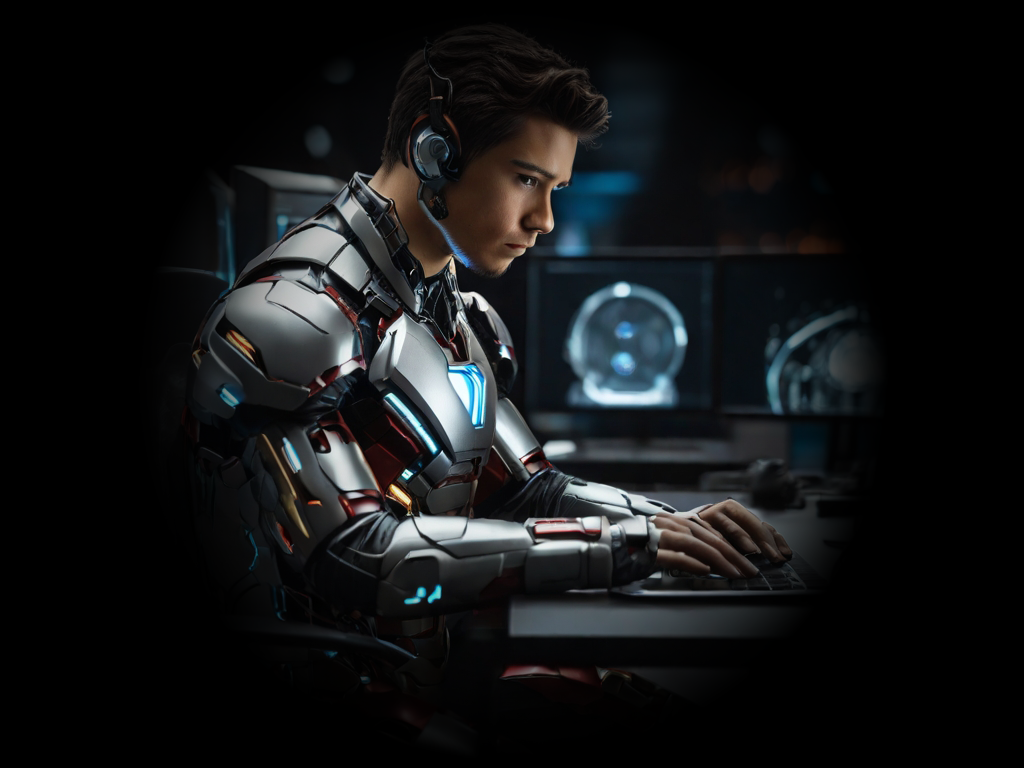
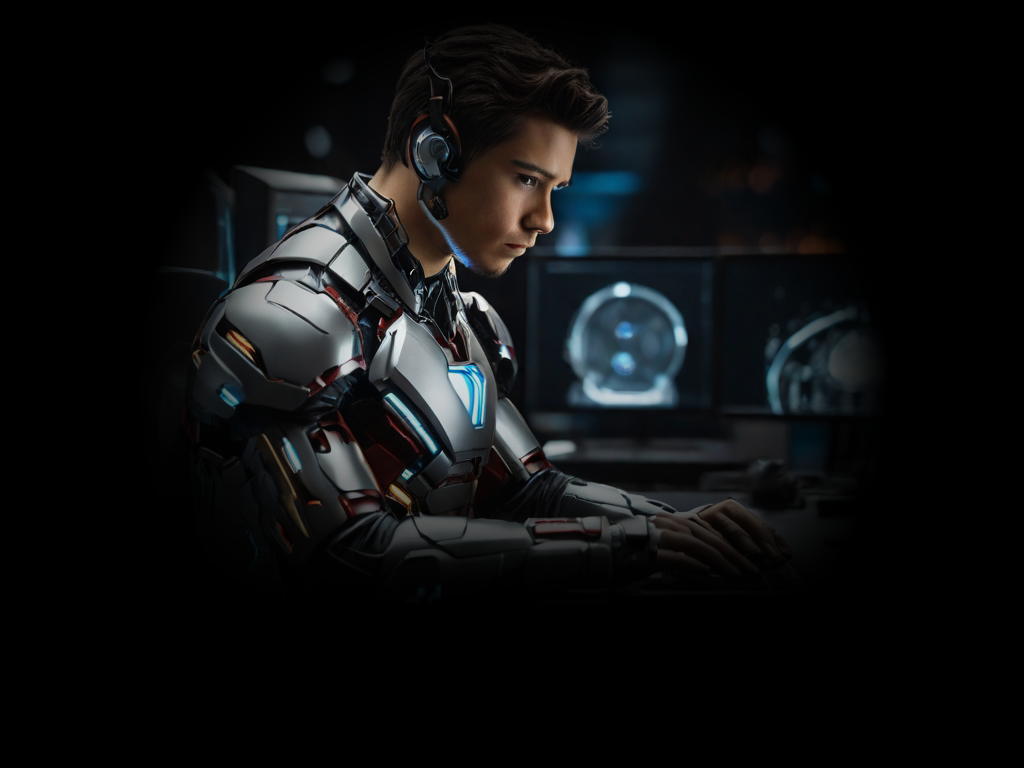
update

diff --git a/src/app/HomePortfoli/components/TextHome.tsx b/src/app/HomePortfoli/components/TextHome.tsx
@@ -1,5 +1,6 @@
 
 import Image from "next/image";
+import { BarSocialMedia } from "@/components/ButtomClick";
 
 export function TextHome() {
   return (
@@ -26,8 +27,8 @@ export function DescriptiontHome() {
       <div className="relative  overflow-hidden">
         <div className="absolute w-full h-full">
           <div className=" w-full h-full ">
-            <div className="absolute inset-0 flex items-center justify-center overflow-hidden ">
-              <div className=" w-5/6 h-full ">
+            <div className="absolute inset-0 flex items-center justify-center overflow-hidden w-full h-full">
+              <div className=" w-8/12 h-full ">
                 <Image className="object-cover opacity-60 " 
                   src="/background_003_002.png" 
                   alt="" 
@@ -98,6 +99,24 @@ export function DescriptiontHome() {
               </div>
             </div>
           </div>
+        </div>
+      </div>
+    </div>
+  );
+}
+
+
+export function FollowMyHome() {
+  return (
+    <div className="h-full w-full py-10">
+      <div className="grid grid-rows-2 grid-flow-col gap-4 ">
+        <div className="inline-flex items-center justify-center w-full">
+          <hr className="w-3/12 warxs:w-2/12 h-unit-2  bg-gray-200 border-0 dark:bg-gray-700"></hr>
+          <h1 className="guty2lg:text-2xl text-7xl font-extrabold text-center px-5">Follow my work</h1>
+          <hr className="w-3/12 warxs:w-2/12 h-unit-2  bg-gray-200 border-0 dark:bg-gray-700"></hr>
+        </div>
+        <div className="flex items-center justify-center">
+          <BarSocialMedia></BarSocialMedia>
         </div>
       </div>
     </div>

diff --git a/src/app/HomePortfoli/page.tsx b/src/app/HomePortfoli/page.tsx
@@ -3,7 +3,7 @@ import {NextUIProvider} from "@nextui-org/react";
 import React from "react";
 import ShowNavBar from "@/app/HomePortfoli/components/ShowNavBar";
 import { DescriptiontHome } from "./components/TextHome";
-import { BarSocialMedia } from "@/components/ButtomClick";
+import { FollowMyHome } from "./components/TextHome";
 
 export default function HomePortfoli() {
   return (
@@ -14,17 +14,8 @@ export default function HomePortfoli() {
             <div className="">
               <ShowNavBar></ShowNavBar>
             </div>
-            <div className="h-full w-full py-10">
-              <div className="grid grid-rows-2 grid-flow-col gap-4 ">
-                <div className="inline-flex items-center justify-center w-full">
-                  <hr className="w-3/12 warxs:w-2/12 h-unit-2  bg-gray-200 border-0 dark:bg-gray-700"></hr>
-                  <h1 className="guty2lg:text-2xl text-7xl font-extrabold text-center px-5">Follow my work</h1>
-                  <hr className="w-3/12 warxs:w-2/12 h-unit-2  bg-gray-200 border-0 dark:bg-gray-700"></hr>
-                </div>
-                <div className="flex items-center justify-center">
-                  <BarSocialMedia></BarSocialMedia>
-                </div>
-              </div>
+            <div>
+              <FollowMyHome></FollowMyHome>
             </div>
             <div>
               <DescriptiontHome></DescriptiontHome>
